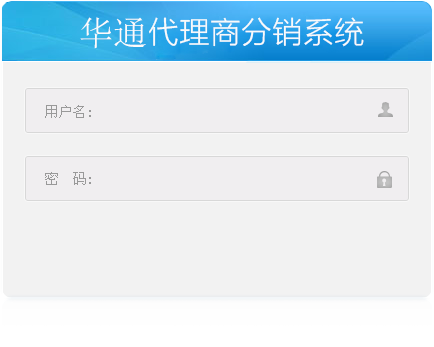
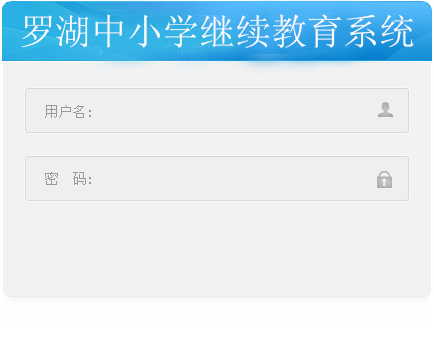
修改登录也图片
修改登录也图片

Changed region(s): [[0.0599, 0.0288, 0.9585, 0.2017], [0.2396, 0.1729, 0.3295, 0.2017]]

diff --git a/LuoHuEduSys/LuoHuEdu/Default.aspx.designer.cs b/LuoHuEduSys/LuoHuEdu/Default.aspx.designer.cs
@@ -1,10 +1,10 @@
 //------------------------------------------------------------------------------
-// <auto-generated>
-//     This code was generated by a tool.
+// <自动生成>
+//     此代码由工具生成。
 //
-//     Changes to this file may cause incorrect behavior and will be lost if
-//     the code is regenerated. 
-// </auto-generated>
+//     对此文件的更改可能会导致不正确的行为，并且如果
+//     重新生成代码，这些更改将会丢失。 
+// </自动生成>
 //------------------------------------------------------------------------------
 
 namespace HuaTongCallCenter {
@@ -13,47 +13,47 @@ namespace HuaTongCallCenter {
     public partial class _Default {
         
         /// <summary>
-        /// Head1 control.
+        /// Head1 控件。
         /// </summary>
         /// <remarks>
-        /// Auto-generated field.
-        /// To modify move field declaration from designer file to code-behind file.
+        /// 自动生成的字段。
+        /// 若要进行修改，请将字段声明从设计器文件移到代码隐藏文件。
         /// </remarks>
         protected global::System.Web.UI.HtmlControls.HtmlHead Head1;
         
         /// <summary>
-        /// form1 control.
+        /// form1 控件。
         /// </summary>
         /// <remarks>
-        /// Auto-generated field.
-        /// To modify move field declaration from designer file to code-behind file.
+        /// 自动生成的字段。
+        /// 若要进行修改，请将字段声明从设计器文件移到代码隐藏文件。
         /// </remarks>
         protected global::System.Web.UI.HtmlControls.HtmlForm form1;
         
         /// <summary>
-        /// lblUser control.
+        /// lblUser 控件。
         /// </summary>
         /// <remarks>
-        /// Auto-generated field.
-        /// To modify move field declaration from designer file to code-behind file.
+        /// 自动生成的字段。
+        /// 若要进行修改，请将字段声明从设计器文件移到代码隐藏文件。
         /// </remarks>
         protected global::System.Web.UI.WebControls.Label lblUser;
         
         /// <summary>
-        /// lbtnLoginOut control.
+        /// lbtnLoginOut 控件。
         /// </summary>
         /// <remarks>
-        /// Auto-generated field.
-        /// To modify move field declaration from designer file to code-behind file.
+        /// 自动生成的字段。
+        /// 若要进行修改，请将字段声明从设计器文件移到代码隐藏文件。
         /// </remarks>
         protected global::System.Web.UI.WebControls.LinkButton lbtnLoginOut;
         
         /// <summary>
-        /// hfUserName control.
+        /// hfUserName 控件。
         /// </summary>
         /// <remarks>
-        /// Auto-generated field.
-        /// To modify move field declaration from designer file to code-behind file.
+        /// 自动生成的字段。
+        /// 若要进行修改，请将字段声明从设计器文件移到代码隐藏文件。
         /// </remarks>
         protected global::System.Web.UI.WebControls.HiddenField hfUserName;
     }
